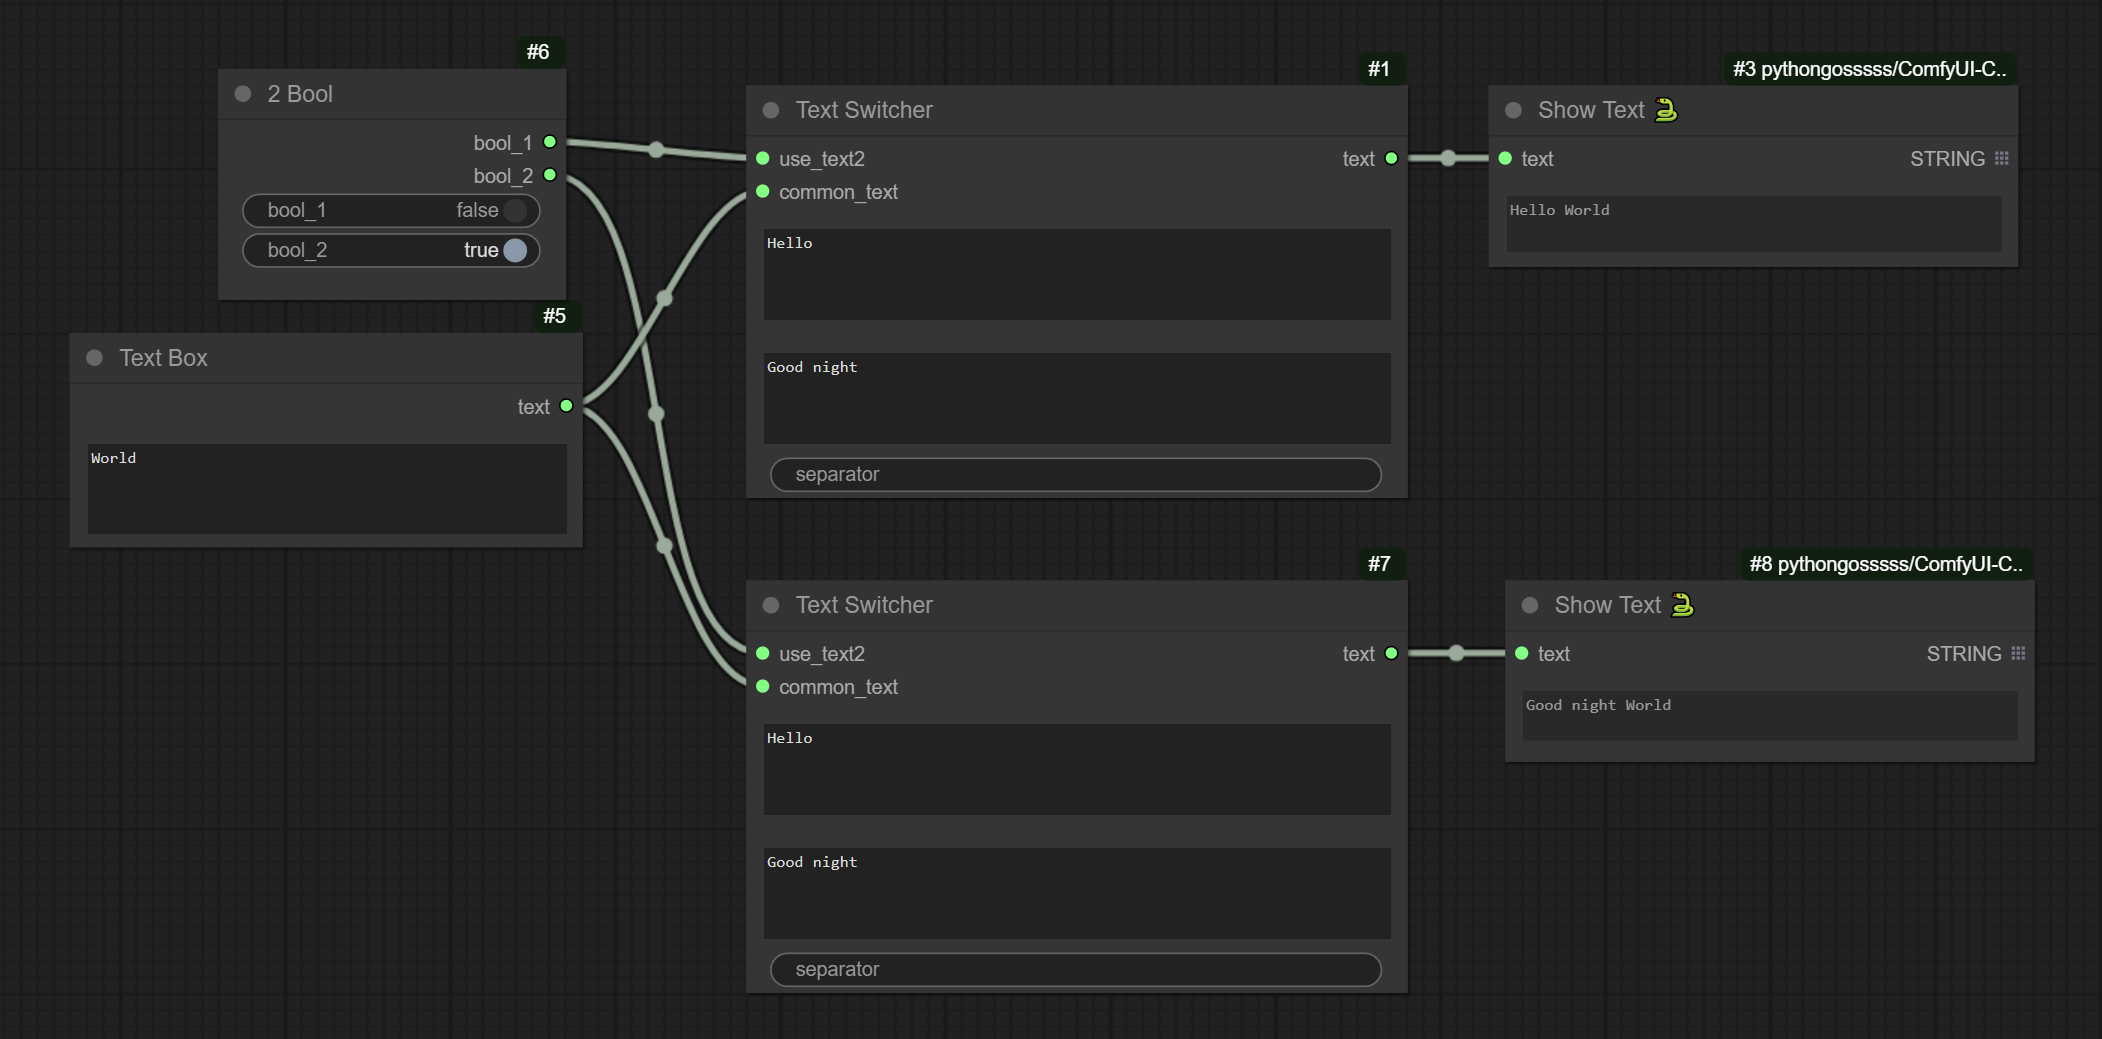
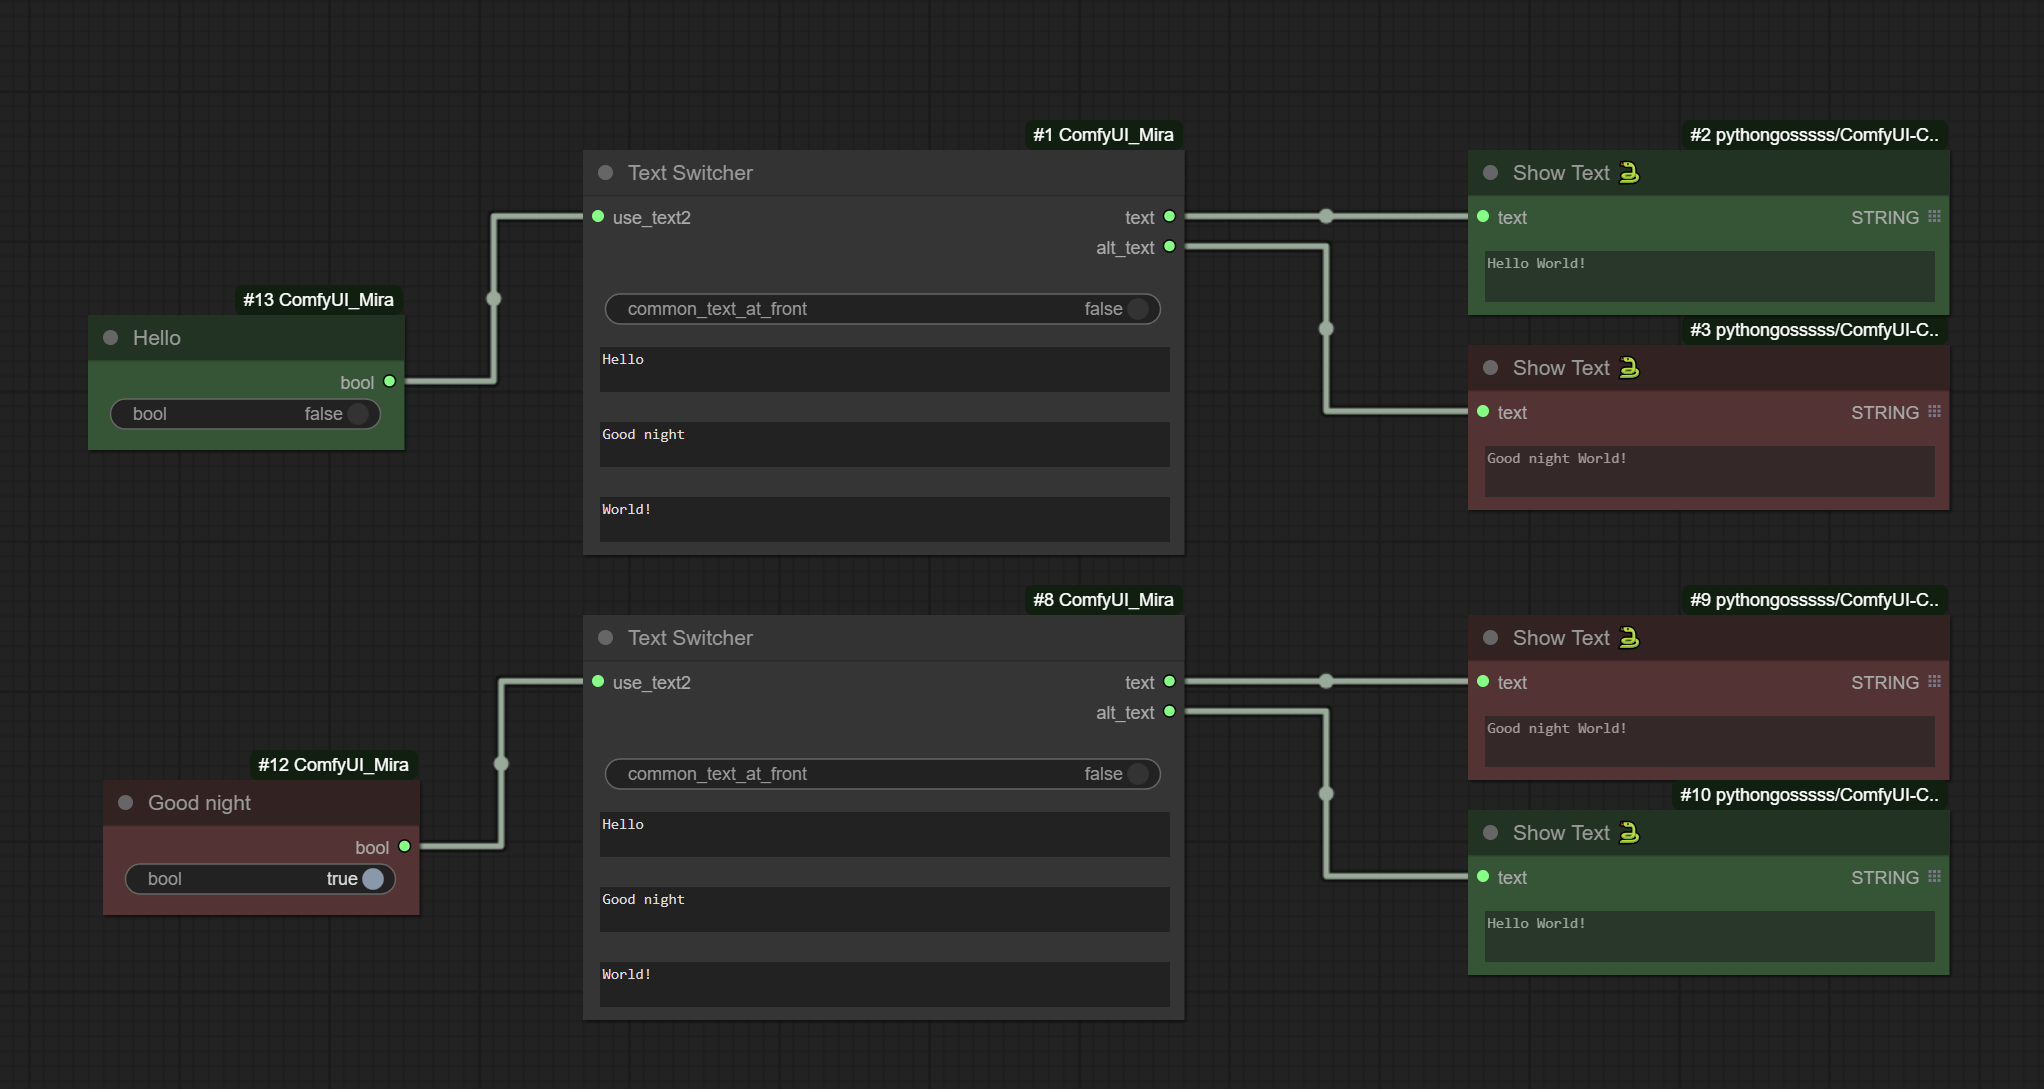
0.4.2.1

diff --git a/Text.py b/Text.py
@@ -34,7 +34,8 @@ class TextWithBooleanSwitchAndCommonTextInput:
     common_text             - Common text input for quality tags and etc, leave it blank if you don't need it.
         
     Outputs:
-    text        - A combined text output    
+    text                    - Combined text output   
+    text_alt                - Alternative combined text output    
     '''
     @classmethod
     def INPUT_TYPES(s):
@@ -61,22 +62,22 @@ class TextWithBooleanSwitchAndCommonTextInput:
             },
         }
                 
-    RETURN_TYPES = ("STRING",)
-    RETURN_NAMES = ("text",)
+    RETURN_TYPES = ("STRING", "STRING",)
+    RETURN_NAMES = ("text","alt_text",)
     FUNCTION = "TextWithBooleanSwitchAndCommonTextInputEx"
     CATEGORY = cat
     
     def TextWithBooleanSwitchAndCommonTextInputEx(self, use_text2, common_text_at_front, text1, text2, common_text):
         if True == common_text_at_front:
             if True == use_text2:
-                return (common_text + text2,)
+                return (common_text + text2, common_text + text1,)
             else:
-                return (common_text + text1,)
+                return (common_text + text1, common_text + text2,)
         else:
             if True == use_text2:
-                return (text2 + common_text,)
+                return (text2 + common_text, text1 + common_text,)
             else:
-                return (text1 + common_text,)
+                return (text1 + common_text, text2 + common_text,)
 
 class TextCombinerSix:
     '''

diff --git a/README.md b/README.md
@@ -315,6 +315,7 @@ Selects `text1` or `text2` depending on the `use_text2` and automatically adds `
 | Outputs | Description |
 | --- | --- |
 | `text`  | A combined text output. |
+| `text_alt`  |  Alternative combined text output. |
 
 Example   
 <img src="https://github.com/mirabarukaso/ComfyUI_Mira/blob/main/examples/example_text_switcher.png" width=35% height=35%>   
@@ -498,55 +499,15 @@ Example
 ------
 ## Overview - Regional Conditioning Mask with HiRes Fix
 
+SDXL without `74 triggers` and `(customized) Ultimate SD Upscale`   
+<img src="https://github.com/mirabarukaso/ComfyUI_Mira/blob/main/examples/overview02.png" width=50% height=50%>
+   
+SDXL
 <img src="https://github.com/mirabarukaso/ComfyUI_Mira/blob/main/examples/overview01.png" width=50% height=50%>
 
 ------
 
-## Change Logs
-#### 2024.05.09 Ver 0.4.2.0   
-・Add SN74LVC1G125   
-・Add SN74HC1G86, SN74HC86   
-・Add NoneToZero   
-・Add Create Circle Mask (Test)   
-
-#### 2024.05.05 Ver 0.4.1.0   
-・Add Function Swap    
-・Add Even or Odd List   
-・Add Bools from List   
-・Add Floats from List   
-・Func enhancement   
-
-#### 2024.04.06 Ver 0.4.0.0   
-・Add Create Nested Rectangle PNG Mask   
-・Add Random Nested Layouts   
-・Add Integer to Float Multiplication   
-・Bugfix   
-・Func enhancement   
-
-v0.3.9.0   
-・Add Create Watermark Removal Mask    
-・Modified Text Switcher   
-
-#### 2024.03.31 Ver 0.3.8.0   
-・Multiplier now renamed to Arithmetic.   
-・Add Integer Subtraction    
-
-#### 2024.03.16 Ver 0.3.7.0
-・Add Random Layouts [#1](https://github.com/mirabarukaso/ComfyUI_Mira/issues/1)
-
-#### 2024.03.14 Ver 0.3.6.0
-・Add Create Mask With Canvas   
-
-#### 2024.02.22 Ver 0.3.5.0
-・Add Text Switcher   
-・Add simple Logic functions   
-・Bugfix   
-
-v0.3.3.0   
-・Bugs fix   
-・Renamed few nodes   
-・Add PngRectanglesToMask (List)   
-・Add CanvasCreator Basic & Normal   
-
-#### 2024.02.21 Ver 0.3.0.0
-・Initial release   
+## Latest Change Log
+#### 2024.06.07 Ver 0.4.2.1   
+・Modify Text Switcher now support `alternative text output` for `regional condition 2 charaters`   
+・Move old logs to `CHANGELOGS.md`   

diff --git a/CHANGELOGS.md b/CHANGELOGS.md
@@ -1,0 +1,48 @@
+## Change Logs
+#### 2024.05.09 Ver 0.4.2.0   
+・Add SN74LVC1G125   
+・Add SN74HC1G86, SN74HC86   
+・Add NoneToZero   
+・Add Create Circle Mask (Test)   
+
+#### 2024.05.05 Ver 0.4.1.0   
+・Add Function Swap    
+・Add Even or Odd List   
+・Add Bools from List   
+・Add Floats from List   
+・Func enhancement   
+
+#### 2024.04.06 Ver 0.4.0.0   
+・Add Create Nested Rectangle PNG Mask   
+・Add Random Nested Layouts   
+・Add Integer to Float Multiplication   
+・Bugfix   
+・Func enhancement   
+
+v0.3.9.0   
+・Add Create Watermark Removal Mask    
+・Modified Text Switcher   
+
+#### 2024.03.31 Ver 0.3.8.0   
+・Multiplier now renamed to Arithmetic.   
+・Add Integer Subtraction    
+
+#### 2024.03.16 Ver 0.3.7.0
+・Add Random Layouts [#1](https://github.com/mirabarukaso/ComfyUI_Mira/issues/1)
+
+#### 2024.03.14 Ver 0.3.6.0
+・Add Create Mask With Canvas   
+
+#### 2024.02.22 Ver 0.3.5.0
+・Add Text Switcher   
+・Add simple Logic functions   
+・Bugfix   
+
+v0.3.3.0   
+・Bugs fix   
+・Renamed few nodes   
+・Add PngRectanglesToMask (List)   
+・Add CanvasCreator Basic & Normal   
+
+#### 2024.02.21 Ver 0.3.0.0
+・Initial release   
